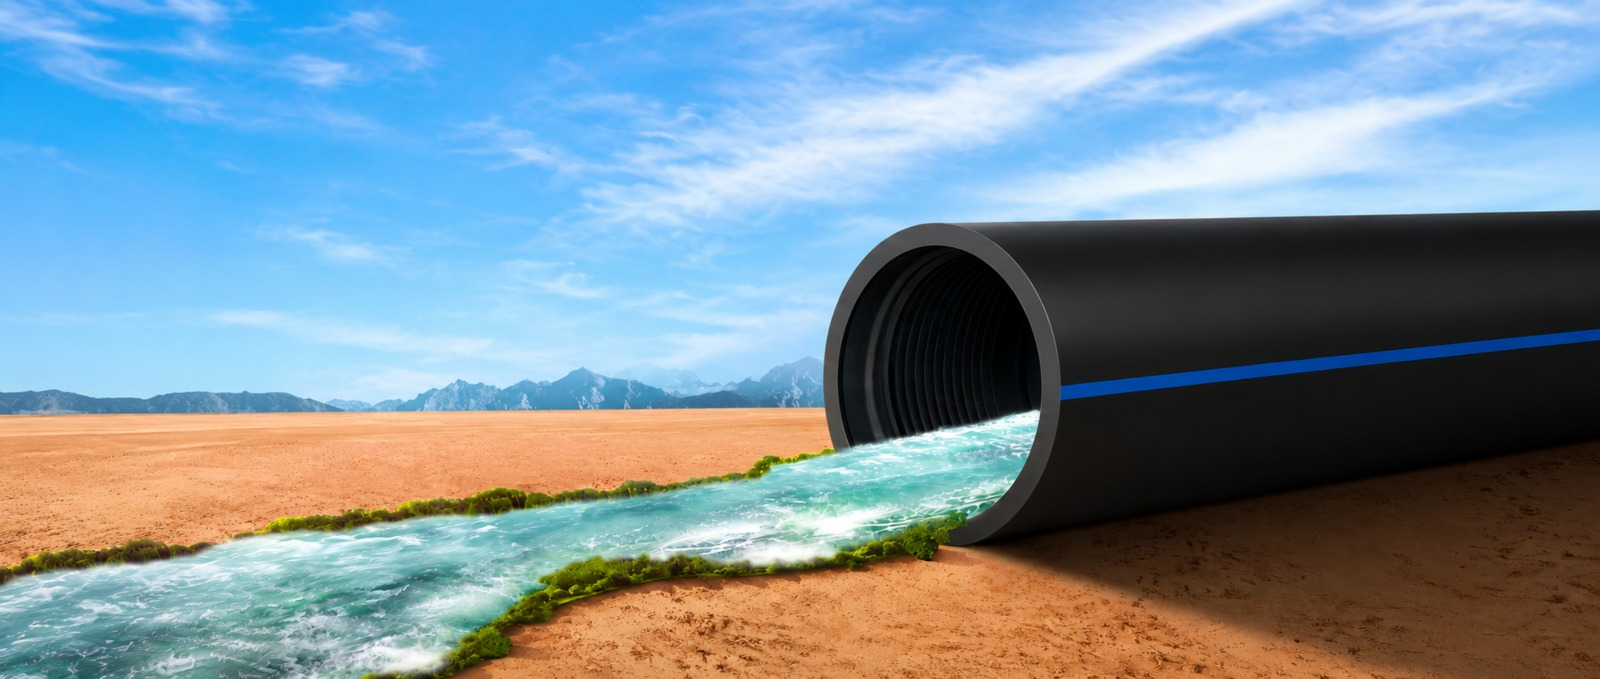
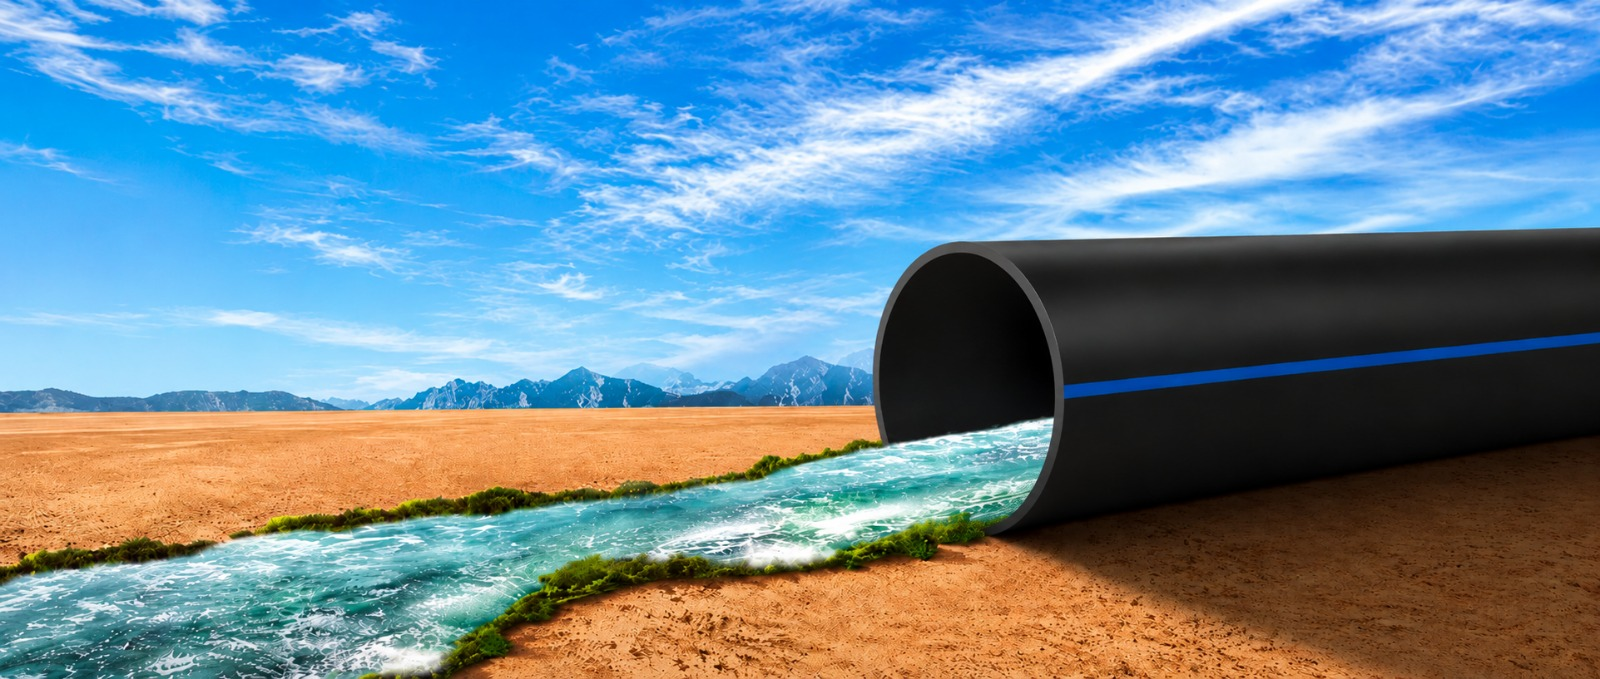
feat: update contact information, product descriptions, and dealership enquiry labels across site pages.

diff --git a/sprinkler-fitting.php b/sprinkler-fitting.php
@@ -54,15 +54,16 @@ include 'header.php';
                 <div class="col-md-4 mb-4"><img src="images/brands/Coupler C type.png" alt="Coupler C type" class="img-fluid"><br>Coupler C type</div>
                 <div class="col-md-4 mb-4"><img src="images/brands/Tee C Type.png" alt="Tee C Type" class="img-fluid"><br>Tee C Type</div>
                 <div class="col-md-4 mb-4"><img src="images/brands/Y Type.png" alt="Y Type" class="img-fluid"><br>Y Type</div>
-            </div>
-
-            <h4 class="mt-4 mb-3">FEATURES & CHARACTERRISTICS</h4>
+            </div>  
+            <h2>SPRINKLER FITTING</h2>
+            <p>HDPE Sprinkler Fitting is a durable irrigation component made from High-Density Polyethylene (HDPE),used to connect pipes, sprinklers, and other irrigation equipment in sprinkler systems. It is llightweight, corrosion- resistant, leak-proof, anid designed to withstand high pressure and outdloor conditions, ensuring efficient water distribution in agricultural and landscaping applications.</p>
+            <h4 class="mt-4 mb-3">FEATURES & CHARACTERISTICS</h4>
             <div class="row">
                 <div class="col-md-6">
                     <ul class="tstk-list tstk-list-style-icon tstk-list-icon-color-skincolor">
-                        <li><i class="tstk-base-icon-right-open"></i> Corrosion Resistance</li>
+                        <li><i class="tstk-base-icon-right-open"></i> Corrosion-Resistant</li>
                         <li><i class="tstk-base-icon-right-open"></i> Light Weight & Flexible</li>
-                        <li><i class="tstk-base-icon-right-open"></i> Impact Resistance & Tough, Durable</li>
+                        <li><i class="tstk-base-icon-right-open"></i> impact resistant & Tough, Durable</li>
                         <li><i class="tstk-base-icon-right-open"></i> Smooth Surface-low Pipe Friction Losses</li>
                     </ul>
                 </div>
@@ -130,14 +131,14 @@ include 'header.php';
                 <aside id="custom_html-3" class="widget_text widget-odd widget-21 single-service-contact widget widget_custom_html industrey_widget  industrey_widget_count_21">
                   <div class="textwidget custom-html-widget">
                     <div class="single-service-contact-inner">
-                      <h5>For a investor Inquiry</h5>
+                      <h5>For a Dealership Enquiry</h5>
                     <p><img loading="lazy" class="size-full wp-image-28211 aligncenter" style="background-color: #fff; border-radius: 8px !important; padding: 10px; width: 160px !important; height: auto !important; border: none !important; object-fit: contain;" src="images/SPLogo.png" alt="Sethi Pipe Logo" width="160" height="107"></p>
                         <h5 class="tstk-service-title">Sethi Pipe</h5>
                       <p class="tstk-service-position">Shri Krishna Rubber Industries</p>
                       <ul>
                         <li style="list-style-type: none;">
                           <ul>
-                            <li><i class="tstk-base-icon-phone-volume-solid"></i> +91 9425151151</li>
+                            <li><i class="tstk-base-icon-phone-volume-solid"></i> +91 9713014516</li>
                             <li><i class="tstk-base-icon-mail-alt"></i> <a href="" class="__cf_email__ text-white" data-cfemail="0d606c64614d68756c607d6168236e6260">shrikrishnarubberindustries@gmail.com</a></li>
                           </ul>
                         </li>

diff --git a/rubber-washer.php b/rubber-washer.php
@@ -129,14 +129,13 @@ include 'header.php';
                 </div>
             </div>
 
-            <h4 class="mt-4 mb-3">FEATURES & CHARACTERRISTICS</h4>
+            <h4 class="mt-4 mb-3">FEATURES & CHARACTERISTICS</h4>
             <div class="row">
                 <div class="col-md-6">
                     <ul class="tstk-list tstk-list-style-icon tstk-list-icon-color-skincolor">
-                        <li><i class="tstk-base-icon-right-open"></i> Corrosion Resistance</li>
+                        <li><i class="tstk-base-icon-right-open"></i> Corrosion-Resistant</li>
                         <li><i class="tstk-base-icon-right-open"></i> Light Weight & Flexible</li>
-                        <li><i class="tstk-base-icon-right-open"></i> Impact Resistance & Tough, Durable</li>
-                        <li><i class="tstk-base-icon-right-open"></i> Smooth Surface-low Pipe Friction Losses</li>
+                        <li><i class="tstk-base-icon-right-open"></i> impact resistant & Tough, Durable</li>
                     </ul>
                 </div>
                 <div class="col-md-6">
@@ -144,7 +143,6 @@ include 'header.php';
                         <li><i class="tstk-base-icon-right-open"></i> Long Service Life</li>
                         <li><i class="tstk-base-icon-right-open"></i> Low Electrical Conductivity</li>
                         <li><i class="tstk-base-icon-right-open"></i> Environmental Friendly</li>
-                        <li><i class="tstk-base-icon-right-open"></i> Good Weldability</li>
                     </ul>
                 </div>
             </div>
@@ -203,14 +201,14 @@ include 'header.php';
                 <aside id="custom_html-3" class="widget_text widget-odd widget-21 single-service-contact widget widget_custom_html industrey_widget  industrey_widget_count_21">
                   <div class="textwidget custom-html-widget">
                     <div class="single-service-contact-inner">
-                      <h5>For a investor Inquiry</h5>
+                      <h5>For a Dealership Enquiry</h5>
                     <p><img loading="lazy" class="size-full wp-image-28211 aligncenter" style="background-color: #fff; border-radius: 8px !important; padding: 10px; width: 160px !important; height: auto !important; border: none !important; object-fit: contain;" src="images/SPLogo.png" alt="Sethi Pipe Logo" width="160" height="107"></p>
                         <h5 class="tstk-service-title">Sethi Pipe</h5>
                       <p class="tstk-service-position">Shri Krishna Rubber Industries</p>
                       <ul>
                         <li style="list-style-type: none;">
                           <ul>
-                            <li><i class="tstk-base-icon-phone-volume-solid"></i> +91 9425151151</li>
+                            <li><i class="tstk-base-icon-phone-volume-solid"></i> +91 9713014516</li>
                             <li><i class="tstk-base-icon-mail-alt"></i> <a href="" class="__cf_email__ text-white" data-cfemail="0d606c64614d68756c607d6168236e6260">shrikrishnarubberindustries@gmail.com</a></li>
                           </ul>
                         </li>

diff --git a/sprinkler-pipe.php b/sprinkler-pipe.php
@@ -45,7 +45,7 @@ include 'header.php';
                         <div class="product-details-content mb-5 mt-4">
         <h2>SPRINKLER PIPE</h2>
         <div class="elementor-widget-container">
-            <p>We are an eminent manufacturer and supplier of a wide collection of HDPE sprinkler pipes. The offered pipes are fabricated using fine quality raw material. These HDPE sprinkler pipes are manufactured by using the finest of the raw material.</p>
+            <p>HDPE Sprinkler Pipes are lightweight, durable pipes made from high-dlensity polyethylene, designed for agricultural irrigation systems. They are resistant to corrosion,chemicals, and weather conditions, ensuring efficient water distribution with minimal leakage. Their flexibility, easy installation, and long service life make themideal for sprinkler irrigation applications.</p>
             <ul class="tstk-list tstk-list-style-icon tstk-list-icon-color-skincolor">
                 <li><i class="tstk-base-icon-right-open"></i> <strong>SIZE :</strong> 63mm, 75mm, 90mm, 110mm</li>
                 <li><i class="tstk-base-icon-right-open"></i> <strong>Pressure :</strong> 2.5kgf/cm – 3.2kgf/cm</li>
@@ -105,14 +105,14 @@ include 'header.php';
                 <aside id="custom_html-3" class="widget_text widget-odd widget-21 single-service-contact widget widget_custom_html industrey_widget  industrey_widget_count_21">
                   <div class="textwidget custom-html-widget">
                     <div class="single-service-contact-inner">
-                      <h5>For a investor Inquiry</h5>
+                      <h5>For a Dealership Enquiry</h5>
                     <p><img loading="lazy" class="size-full wp-image-28211 aligncenter" style="background-color: #fff; border-radius: 8px !important; padding: 10px; width: 160px !important; height: auto !important; border: none !important; object-fit: contain;" src="images/SPLogo.png" alt="Sethi Pipe Logo" width="160" height="107"></p>
                         <h5 class="tstk-service-title">Sethi Pipe</h5>
                       <p class="tstk-service-position">Shri Krishna Rubber Industries</p>
                       <ul>
                         <li style="list-style-type: none;">
                           <ul>
-                            <li><i class="tstk-base-icon-phone-volume-solid"></i> +91 9425151151</li>
+                            <li><i class="tstk-base-icon-phone-volume-solid"></i> +91 9713014516</li>
                             <li><i class="tstk-base-icon-mail-alt"></i> <a href="" class="__cf_email__ text-white" data-cfemail="0d606c64614d68756c607d6168236e6260">shrikrishnarubberindustries@gmail.com</a></li>
                           </ul>
                         </li>

diff --git a/hdpe-pipe.php b/hdpe-pipe.php
@@ -45,7 +45,8 @@ include 'header.php';
                         <div class="product-details-content mb-5 mt-4">
         <h2>HDPE PIPE</h2>
         <div class="elementor-widget-container">
-            <p>HDPE pipe is known for its high strength to density ratio. HDPE has little branching giving it stronger intermolecular forces and tensile strength than HDPE and more opaque and can withstand somewhat higher temperature.</p>
+            <p>HDPE(High-Density Polyethylene) Pipes are durable plastic pipes made from high-density polyethylene resin. They are lightweight, flexible corrosion-resistant, and have high impact strength, making them suitable for water supply, irrigation, sewage systems, gas distribution, and industrial applications. HDPE pipes also offer
+leak-free joints and a lonig service life.</p>
             <table class="table table-bordered table-striped mt-4">
                 <tbody>
                     <tr><th>Size (MM)</th><td>20MM to 160MM</td></tr>
@@ -109,14 +110,14 @@ include 'header.php';
                 <aside id="custom_html-3" class="widget_text widget-odd widget-21 single-service-contact widget widget_custom_html industrey_widget  industrey_widget_count_21">
                   <div class="textwidget custom-html-widget">
                     <div class="single-service-contact-inner">
-                      <h5>For a investor Inquiry</h5>
+                      <h5>For a Dealership Enquiry</h5>
                       <p><img loading="lazy" class="size-full wp-image-28211 aligncenter" style="background-color: #fff; border-radius: 8px !important; padding: 10px; width: 160px !important; height: auto !important; border: none !important; object-fit: contain;" src="images/SPLogo.png" alt="Sethi Pipe Logo" width="160" height="107"></p>
                       <h5 class="tstk-service-title">Sethi Pipe</h5>
                       <p class="tstk-service-position">Shri Krishna Rubber Industries</p>
                       <ul>
                         <li style="list-style-type: none;">
                           <ul>
-                            <li><i class="tstk-base-icon-phone-volume-solid"></i> +91 9425151151</li>
+                            <li><i class="tstk-base-icon-phone-volume-solid"></i> +91 9713014516</li>
                             <li><i class="tstk-base-icon-mail-alt"></i> <a href="" class="__cf_email__ text-white" data-cfemail="0d606c64614d68756c607d6168236e6260">shrikrishnarubberindustries@gmail.com</a></li>
                           </ul>
                         </li>

diff --git a/update_pages.py b/update_pages.py
@@ -54,13 +54,13 @@ pages = {
                 <div class="col-md-4 mb-4"><img src="images/brands/Y Type.png" alt="Y Type" class="img-fluid"><br>Y Type</div>
             </div>
 
-            <h4 class="mt-4 mb-3">FEATURES & CHARACTERRISTICS</h4>
+            <h4 class="mt-4 mb-3">FEATURES & CHARACTERISTICS</h4>
             <div class="row">
                 <div class="col-md-6">
                     <ul class="tstk-list tstk-list-style-icon tstk-list-icon-color-skincolor">
-                        <li><i class="tstk-base-icon-right-open"></i> Corrosion Resistance</li>
+                        <li><i class="tstk-base-icon-right-open"></i> Corrosion-Resistant</li>
                         <li><i class="tstk-base-icon-right-open"></i> Light Weight & Flexible</li>
-                        <li><i class="tstk-base-icon-right-open"></i> Impact Resistance & Tough, Durable</li>
+                        <li><i class="tstk-base-icon-right-open"></i> impact resistant & Tough, Durable</li>
                         <li><i class="tstk-base-icon-right-open"></i> Smooth Surface-low Pipe Friction Losses</li>
                     </ul>
                 </div>
@@ -86,13 +86,13 @@ pages = {
                 <div class="col-md-3"><img src="images/brands/Tyton Gasket.png" alt="Tyton Gasket" class="img-fluid"><br>Tyton Gasket</div>
             </div>
 
-            <h4 class="mt-4 mb-3">FEATURES & CHARACTERRISTICS</h4>
+            <h4 class="mt-4 mb-3">FEATURES & CHARACTERISTICS</h4>
             <div class="row">
                 <div class="col-md-6">
                     <ul class="tstk-list tstk-list-style-icon tstk-list-icon-color-skincolor">
-                        <li><i class="tstk-base-icon-right-open"></i> Corrosion Resistance</li>
+                        <li><i class="tstk-base-icon-right-open"></i> Corrosion-Resistant</li>
                         <li><i class="tstk-base-icon-right-open"></i> Light Weight & Flexible</li>
-                        <li><i class="tstk-base-icon-right-open"></i> Impact Resistance & Tough, Durable</li>
+                        <li><i class="tstk-base-icon-right-open"></i> impact resistant & Tough, Durable</li>
                         <li><i class="tstk-base-icon-right-open"></i> Smooth Surface-low Pipe Friction Losses</li>
                     </ul>
                 </div>

diff --git a/header.php b/header.php
@@ -344,7 +344,7 @@
                <div class="d-flex justify-content-between">
                   <div class="tstk-pre-header-left">
                      <ul class="tstk-contact-info">
-                        <li><i class="tstk-base-icon-phone"></i> Call +91 9425151151</li>
+                        <li><i class="tstk-base-icon-phone"></i> Call +91 9713014516</li>
                          <li><i class="tstk-base-icon-mail-alt"></i> <a href="mailto:shrikrishnarubberindustries@gmail.com">shrikrishnarubberindustries@gmail.com</a></li>
                         <li><i class="tstk-base-icon-pin"></i> 58, 59 Industrial Estate, Adhartal, Jabalpur</li>
                      </ul>
@@ -412,7 +412,7 @@
                                         <li class='mega-menu-item mega-menu-item-type-post_type mega-menu-item-object-tstk-service'><a class="mega-menu-link" href="sprinkler-pipe.php">SPRINKLER PIPE</a></li>
                                         <li class='mega-menu-item mega-menu-item-type-post_type mega-menu-item-object-tstk-service'><a class="mega-menu-link" href="sprinkler-fitting.php">SPRINKLER FITTING</a></li>
                                         <li class='mega-menu-item mega-menu-item-type-post_type mega-menu-item-object-tstk-service'><a class="mega-menu-link" href="mdpe-pipe.php">MDPE PIPE</a></li>
-                                        <li class='mega-menu-item mega-menu-item-type-post_type mega-menu-item-object-tstk-service'><a class="mega-menu-link" href="rubber-washer.php">RUBBER WASHER</a></li>
+                                        <li class='mega-menu-item mega-menu-item-type-post_type mega-menu-item-object-tstk-service'><a class="mega-menu-link" href="rubber-washer.php">RUBBER PRODUCTS</a></li>
                                      </ul>
                                  </li>
                                  <li class='mega-menu-item mega-menu-item-type-post_type mega-menu-item-object-page mega-align-bottom-left mega-menu-flyout mega-menu-item-33789' id='mega-menu-item-33789'> <a class="mega-menu-link" href="contact.php" tabindex="0">Contact Us</a> </li>

diff --git a/index.php b/index.php
@@ -39,7 +39,7 @@
                                                             </div>
                                                             <h3 class="tstk-service-title"><a href="hdpe-pipe.php">HDPE PIPE</a></h3>
                                                             <div class="tstk-service-content">
-                                                               <p>HDPE pipe is known for its high strength to density ratio. HDPE has little branching giving it stronger ...</p>
+                                                               <p>HDPE(High-Density Polyethylene) Pipes are durable plastic pipes made from high-density...</p>
                                                             </div>
                                                             <div class="tstk-service-btn"> 
                                                                <a class="btn-arrow" href="hdpe-pipe.php"><span>Read More</span></a>
@@ -75,7 +75,7 @@
                                                             </div>
                                                             <h3 class="tstk-service-title"><a href="sprinkler-pipe.php">SPRINKLER PIPE</a></h3>
                                                             <div class="tstk-service-content">
-                                                               <p>We are an eminent manufacturer and supplier of a wide collection of HDPE sprinkler pipes. The ...</p>
+                                                               <p>HDPE Sprinkler Pipes are lightweight, durable pipes made from high-dlensity polyethylene, designed for ...</p>
                                                             </div>
                                                             <div class="tstk-service-btn"> 
                                                                <a class="btn-arrow" href="sprinkler-pipe.php"><span>Read More</span></a>

diff --git a/hdpe-roll-pipe.php b/hdpe-roll-pipe.php
@@ -102,14 +102,14 @@ include 'header.php';
                 <aside id="custom_html-3" class="widget_text widget-odd widget-21 single-service-contact widget widget_custom_html industrey_widget  industrey_widget_count_21">
                   <div class="textwidget custom-html-widget">
                     <div class="single-service-contact-inner">
-                      <h5>For a investor Inquiry</h5>
+                      <h5>For a Dealership Enquiry</h5>
                     <p><img loading="lazy" class="size-full wp-image-28211 aligncenter" style="background-color: #fff; border-radius: 8px !important; padding: 10px; width: 160px !important; height: auto !important; border: none !important; object-fit: contain;" src="images/SPLogo.png" alt="Sethi Pipe Logo" width="160" height="107"></p>
                         <h5 class="tstk-service-title">Sethi Pipe</h5>
                       <p class="tstk-service-position">Shri Krishna Rubber Industries</p>
                       <ul>
                         <li style="list-style-type: none;">
                           <ul>
-                            <li><i class="tstk-base-icon-phone-volume-solid"></i> +91 9425151151</li>
+                            <li><i class="tstk-base-icon-phone-volume-solid"></i> +91 9713014516</li>
                             <li><i class="tstk-base-icon-mail-alt"></i> <a href="" class="__cf_email__ text-white" data-cfemail="0d606c64614d68756c607d6168236e6260">shrikrishnarubberindustries@gmail.com</a></li>
                           </ul>
                         </li>

diff --git a/mdpe-pipe.php b/mdpe-pipe.php
@@ -101,14 +101,14 @@ include 'header.php';
                 <aside id="custom_html-3" class="widget_text widget-odd widget-21 single-service-contact widget widget_custom_html industrey_widget  industrey_widget_count_21">
                   <div class="textwidget custom-html-widget">
                     <div class="single-service-contact-inner">
-                      <h5>For a investor Inquiry</h5>
+                      <h5>For a Dealership Enquiry</h5>
                     <p><img loading="lazy" class="size-full wp-image-28211 aligncenter" style="background-color: #fff; border-radius: 8px !important; padding: 10px; width: 160px !important; height: auto !important; border: none !important; object-fit: contain;" src="images/SPLogo.png" alt="Sethi Pipe Logo" width="160" height="107"></p>
                         <h5 class="tstk-service-title">Sethi Pipe</h5>
                       <p class="tstk-service-position">Shri Krishna Rubber Industries</p>
                       <ul>
                         <li style="list-style-type: none;">
                           <ul>
-                            <li><i class="tstk-base-icon-phone-volume-solid"></i> +91 9425151151</li>
+                            <li><i class="tstk-base-icon-phone-volume-solid"></i> +91 9713014516</li>
                             <li><i class="tstk-base-icon-mail-alt"></i> <a href="" class="__cf_email__ text-white" data-cfemail="0d606c64614d68756c607d6168236e6260">shrikrishnarubberindustries@gmail.com</a></li>
                           </ul>
                         </li>

diff --git a/contact.php b/contact.php
@@ -79,7 +79,7 @@
 					
 					</h2>
 					
-				<div class="tstk-heading-desc" style="color:white!important">+91 9425151151<br> +91 9713014516</div>			</div><!-- .tstk-ihbox-contents -->
+				<div class="tstk-heading-desc" style="color:white!important">+91 9713014516</div>			</div><!-- .tstk-ihbox-contents -->
 </div></div>				</div>
 				</div>
 				<div class="elementor-element elementor-element-7acf5b3d elementor-widget elementor-widget-tstk_icon_heading" data-id="7acf5b3d" data-element_type="widget" data-widget_type="tstk_icon_heading.default">
@@ -137,7 +137,7 @@
 		</div>
 		<div class="col-sm-6">
 			<div class="input-group">
-				<p><span class="wpcf7-form-control-wrap" data-name="Select"><select class="wpcf7-form-control wpcf7-select" aria-invalid="false" name="Select"><option value="Mechanical">Mechanical</option><option value="Petroleum &amp; Gas">Petroleum &amp; Gas</option><option value="Constructions">Constructions</option></select></span>
+				<p><span class="wpcf7-form-control-wrap" data-name="your-city"><input size="40" maxlength="400" class="wpcf7-form-control wpcf7-text" aria-invalid="false" placeholder="City" value="" type="text" name="your-city" /></span>
 				</p>
 			</div>
 		</div>

diff --git a/footer.php b/footer.php
@@ -53,7 +53,7 @@
 															<div class="tstk-footer-widget tstk-footer-widget-col-4 col-md-6 col-lg-3">
 									<aside id="text-4" class="widget-odd widget-last widget-first widget-1 widget widget_text industrey_widget  industrey_widget_count_29"><h2 class="widget-title">Quick Contact</h2>			<div class="textwidget"><p>58, 59 Industrial Estate, Adhartal, Jabalpur</p>
 <p>If you have any questions or need help, feel free to contact with our team.</p>
-<h3 class="footer-phone"  style="font-size: 1.6rem;">+91 9425151151, +91 9713014516</h3>
+<h3 class="footer-phone"  style="font-size: 1.6rem;">+91 9713014516</h3>
 </div>
 		</aside>								</div><!-- .tstk-footer-widget -->
 												</div><!-- .row -->
